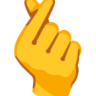
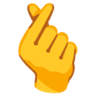
Emojis 🫰 et 🩵 non rognés
Claude-Session: https://claude.ai/code/session_01RZzgHH3oDxaqvUAKKDNH4C

Changed region(s): [[0.125, 0.0, 0.875, 1.0]]

diff --git a/public/index.html b/public/index.html
@@ -269,7 +269,7 @@ function vLanding(){
   var chips=(c.date?'<div class="pill" style="transform:rotate(-2deg)">'+esc(fdate(c.date,true))+'</div>':'')+(c.city?'<div class="pill" style="transform:rotate(2deg)">'+esc(c.city)+'</div>':'');
   return '<div class="land"><div class="pol"><img src="'+PHOTO+'" alt="Alessia"><div class="cap">Alessia, 30 ans !</div></div>'+
    '<i class="tape t1"></i><i class="tape t2"></i>'+
-   '<img class="em" src="/hand.png" alt="" aria-hidden="true" style="margin-left:-175px;top:92px;width:38px;height:38px;transform:rotate(-20deg)"><img class="em" src="/hand.png" alt="" aria-hidden="true" style="margin-left:123px;top:60px;width:34px;height:34px;transform:rotate(16deg)"><img class="em" src="/hand.png" alt="" aria-hidden="true" style="margin-left:110px;top:320px;width:54px;height:54px;transform:rotate(12deg)"><img class="em" src="/hand.png" alt="" aria-hidden="true" style="margin-left:-169px;top:388px;width:30px;height:30px;transform:rotate(-12deg)"><img class="em" src="/hand.png" alt="" aria-hidden="true" style="margin-left:143px;top:392px;width:36px;height:36px;transform:rotate(20deg)"><img class="em" src="/hand.png" alt="" aria-hidden="true" style="margin-left:-11px;top:372px;width:26px;height:26px;transform:rotate(8deg)">'+
+   '<img class="em" src="/hand.png?v=2" alt="" aria-hidden="true" style="margin-left:-175px;top:92px;width:38px;height:38px;transform:rotate(-20deg)"><img class="em" src="/hand.png?v=2" alt="" aria-hidden="true" style="margin-left:123px;top:60px;width:34px;height:34px;transform:rotate(16deg)"><img class="em" src="/hand.png?v=2" alt="" aria-hidden="true" style="margin-left:110px;top:320px;width:54px;height:54px;transform:rotate(12deg)"><img class="em" src="/hand.png?v=2" alt="" aria-hidden="true" style="margin-left:-169px;top:388px;width:30px;height:30px;transform:rotate(-12deg)"><img class="em" src="/hand.png?v=2" alt="" aria-hidden="true" style="margin-left:143px;top:392px;width:36px;height:36px;transform:rotate(20deg)"><img class="em" src="/hand.png?v=2" alt="" aria-hidden="true" style="margin-left:-11px;top:372px;width:26px;height:26px;transform:rotate(8deg)">'+
    '<svg class="heart" width="56" height="56" viewBox="-1 -2 26 26" overflow="visible" aria-hidden="true"><path d="M12 21C5 15 1 11 1 6.5A5.5 5.5 0 0 1 12 4a5.5 5.5 0 0 1 11 2.5C23 11 19 15 12 21z" fill="#fff" stroke="#6B5B9A" stroke-width="1.4"/></svg></div>'+
    (chips?'<div class="chips" style="justify-content:center;margin:-10px 20px 18px">'+chips+'</div>':'')+
    '<div class="entry"><h2>'+(m?'Bon retour !':'Ton prénom')+'</h2>'+
@@ -389,7 +389,7 @@ function burst(k,v){var b=document.querySelector('.opt.pop[data-k="'+k+'"]');if(
     for(var j=0;j<14;j++){var f=document.createElement('i');f.className='rain';f.textContent='🤞';f.style.cssText='left:'+(Math.random()*(w-24))+'px;animation-delay:'+(Math.random()*.55)+'s;font-size:'+(16+Math.random()*10)+'px';card.appendChild(f);(function(x){setTimeout(function(){x.remove()},1800)})(f)}
     setTimeout(function(){card.style.overflow=''},1800);return}
   if(v==='yes'){var c3=b.closest('.card')||b.parentNode;c3.style.position='relative';c3.style.overflow='hidden';var b3=b.getBoundingClientRect(),r3=c3.getBoundingClientRect();
-    for(var h=0;h<9;h++){var hh=document.createElement('img');hh.className='hrt';hh.src='/heart.png';hh.alt='';
+    for(var h=0;h<9;h++){var hh=document.createElement('img');hh.className='hrt';hh.src='/heart.png?v=2';hh.alt='';
       hh.style.cssText='left:'+(b3.left-r3.left+8+Math.random()*(b3.width-30))+'px;top:'+(b3.top-r3.top+b3.height*.3)+'px;width:'+(14+Math.random()*10)+'px;height:auto;animation-delay:'+(.1+Math.random()*1)+'s;animation-duration:'+(1.4+Math.random()*.8)+'s;--sw:'+((Math.random()-.5)*36)+'px';
       c3.appendChild(hh);(function(x){setTimeout(function(){x.remove()},3000)})(hh)}
     setTimeout(function(){c3.style.overflow=''},3000)}
